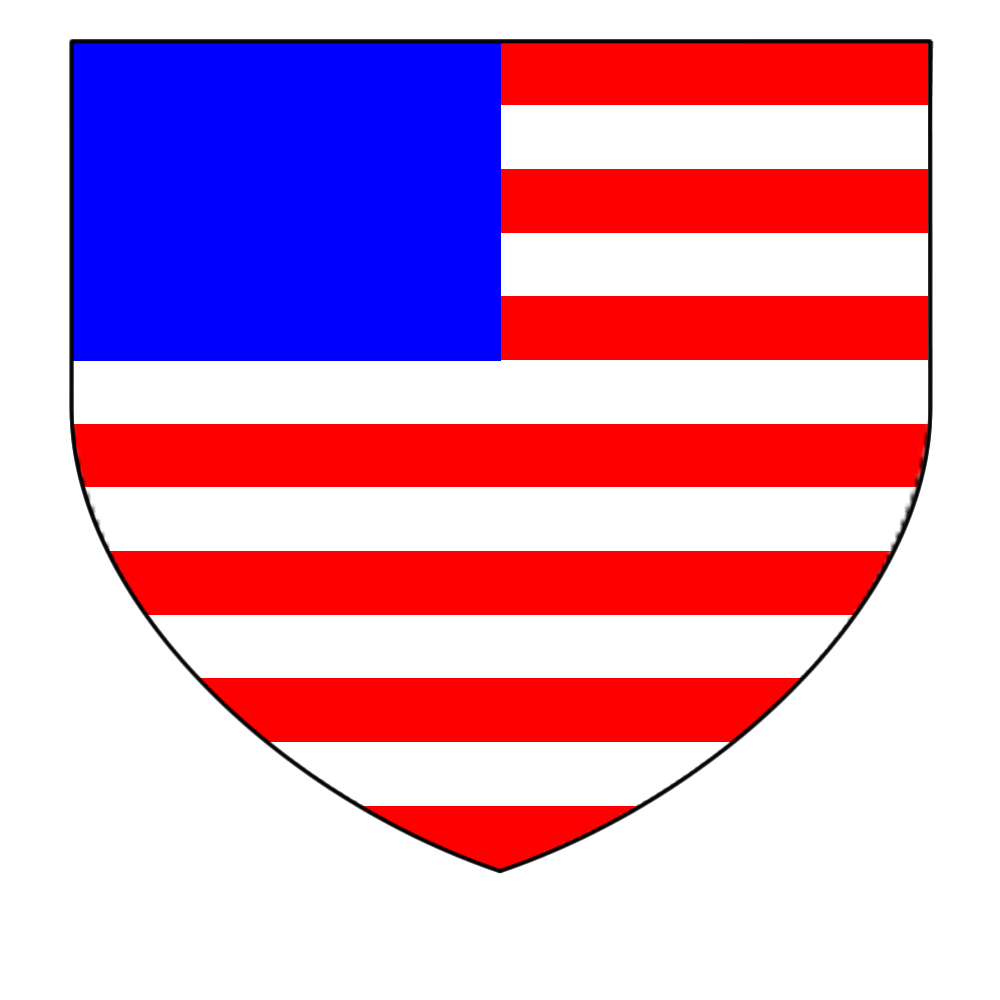
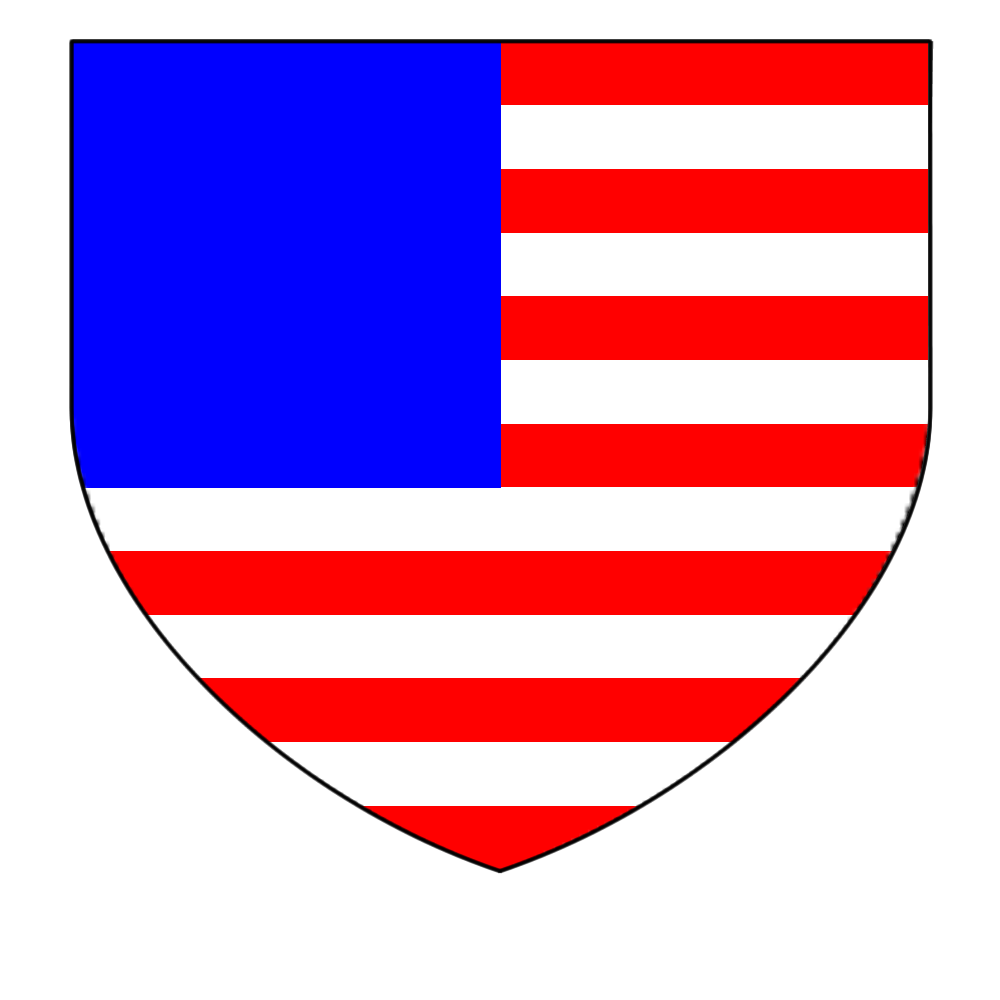
Refactored get_striped_field for better performance on many-striped fields

Changed region(s): [[0.062, 0.341, 0.527, 0.496]]

diff --git a/field_geometries.py b/field_geometries.py
@@ -203,16 +203,25 @@ def get_striped_field(num_sections, tinctures, direction, location):
                   "chevronelly inverted": get_chevronelly_inverted_boundaries}
     field_sections = []
     boundaries = directions[direction](num_sections, location)
-    for i in range(num_sections):
-        size = (kScreenWidth, kScreenHeight)
+    size = (kScreenWidth, kScreenHeight)
+    # One surface and mask per tincture
+    masks_by_tincture = {}
+    for tincture in tinctures:
         surface = pygame.Surface(size, 0, 32)
-        surface.fill(tinctures[i % len(tinctures)])
+        surface.fill(tincture)
         mask = pygame.Surface(size, 0, 32)
+        masks_by_tincture[tincture] = (surface, mask)
+        
+    for i in range(num_sections):
+        tincture = tinctures[i % len(tinctures)]
+        (surface, mask) = masks_by_tincture[tincture]
         # If the stripes would extend outside the location rect,
         # don't let them
         mask.set_clip(location)
         pygame.draw.polygon(mask, kGrey, boundaries[i])
         mask = trim_mask(mask, location)
+
+    for (surface, mask) in masks_by_tincture.values():
         field_sections.append(FieldSection(surface, mask))
     return Device("", field_sections)
 

diff --git a/unified_field_tests.py b/unified_field_tests.py
@@ -22,6 +22,7 @@ field_geometries.get_striped_field(2, [kPurpure, kArgent], "per chevron", full_s
 field_geometries.get_striped_field(7, [kPurpure, kArgent], "chevronelly", full_shield).display_device()
 field_geometries.get_striped_field(2, [kPurpure, kArgent], "per chevron inverted", full_shield).display_device()
 field_geometries.get_striped_field(7, [kPurpure, kArgent], "chevronelly inverted", full_shield).display_device()
+'''
 # Quarterly
 field_geometries.get_quarterly_field([kArgent, kPurpure], full_shield).display_device()
 # Canton
@@ -52,6 +53,5 @@ field_geometries.get_lozengy_field(8, [kPurpure, kArgent], full_shield, 1).displ
 field_geometries.get_lozengy_field(8, [kPurpure, kArgent], full_shield, 4).display_device()
 field_geometries.get_lozengy_field(8, [kPurpure, kArgent], full_shield, 0.5).display_device()  
 field_geometries.get_fretty_field(3, [kAzure, kOr], small_square, True).display_device()  
-'''
 field_geometries.get_scaly_field(3, [kPurpure, kArgent], full_shield).display_device()  
 '''

diff --git a/multiply_divided_field_tests.py b/multiply_divided_field_tests.py
@@ -21,7 +21,7 @@ dexter_half_device.display_device()
 
 print("Barry 13 gules and argent, a canton azure")
 canton = Rect(kXMargin, kYMargin,
-              int(0.5*(kScreenWidth-2*kXMargin)), int(5/13*full_shield.height))
+              int(0.5*(kScreenWidth-2*kXMargin)), int(7/13*full_shield.height))
 bottom_layer = field_geometries.get_striped_field(13, [kGules, kArgent], "barry", full_shield)
 top_layer = field_geometries.get_plain_field(kAzure, canton)
 bottom_layer.merge(top_layer) #order matters here
